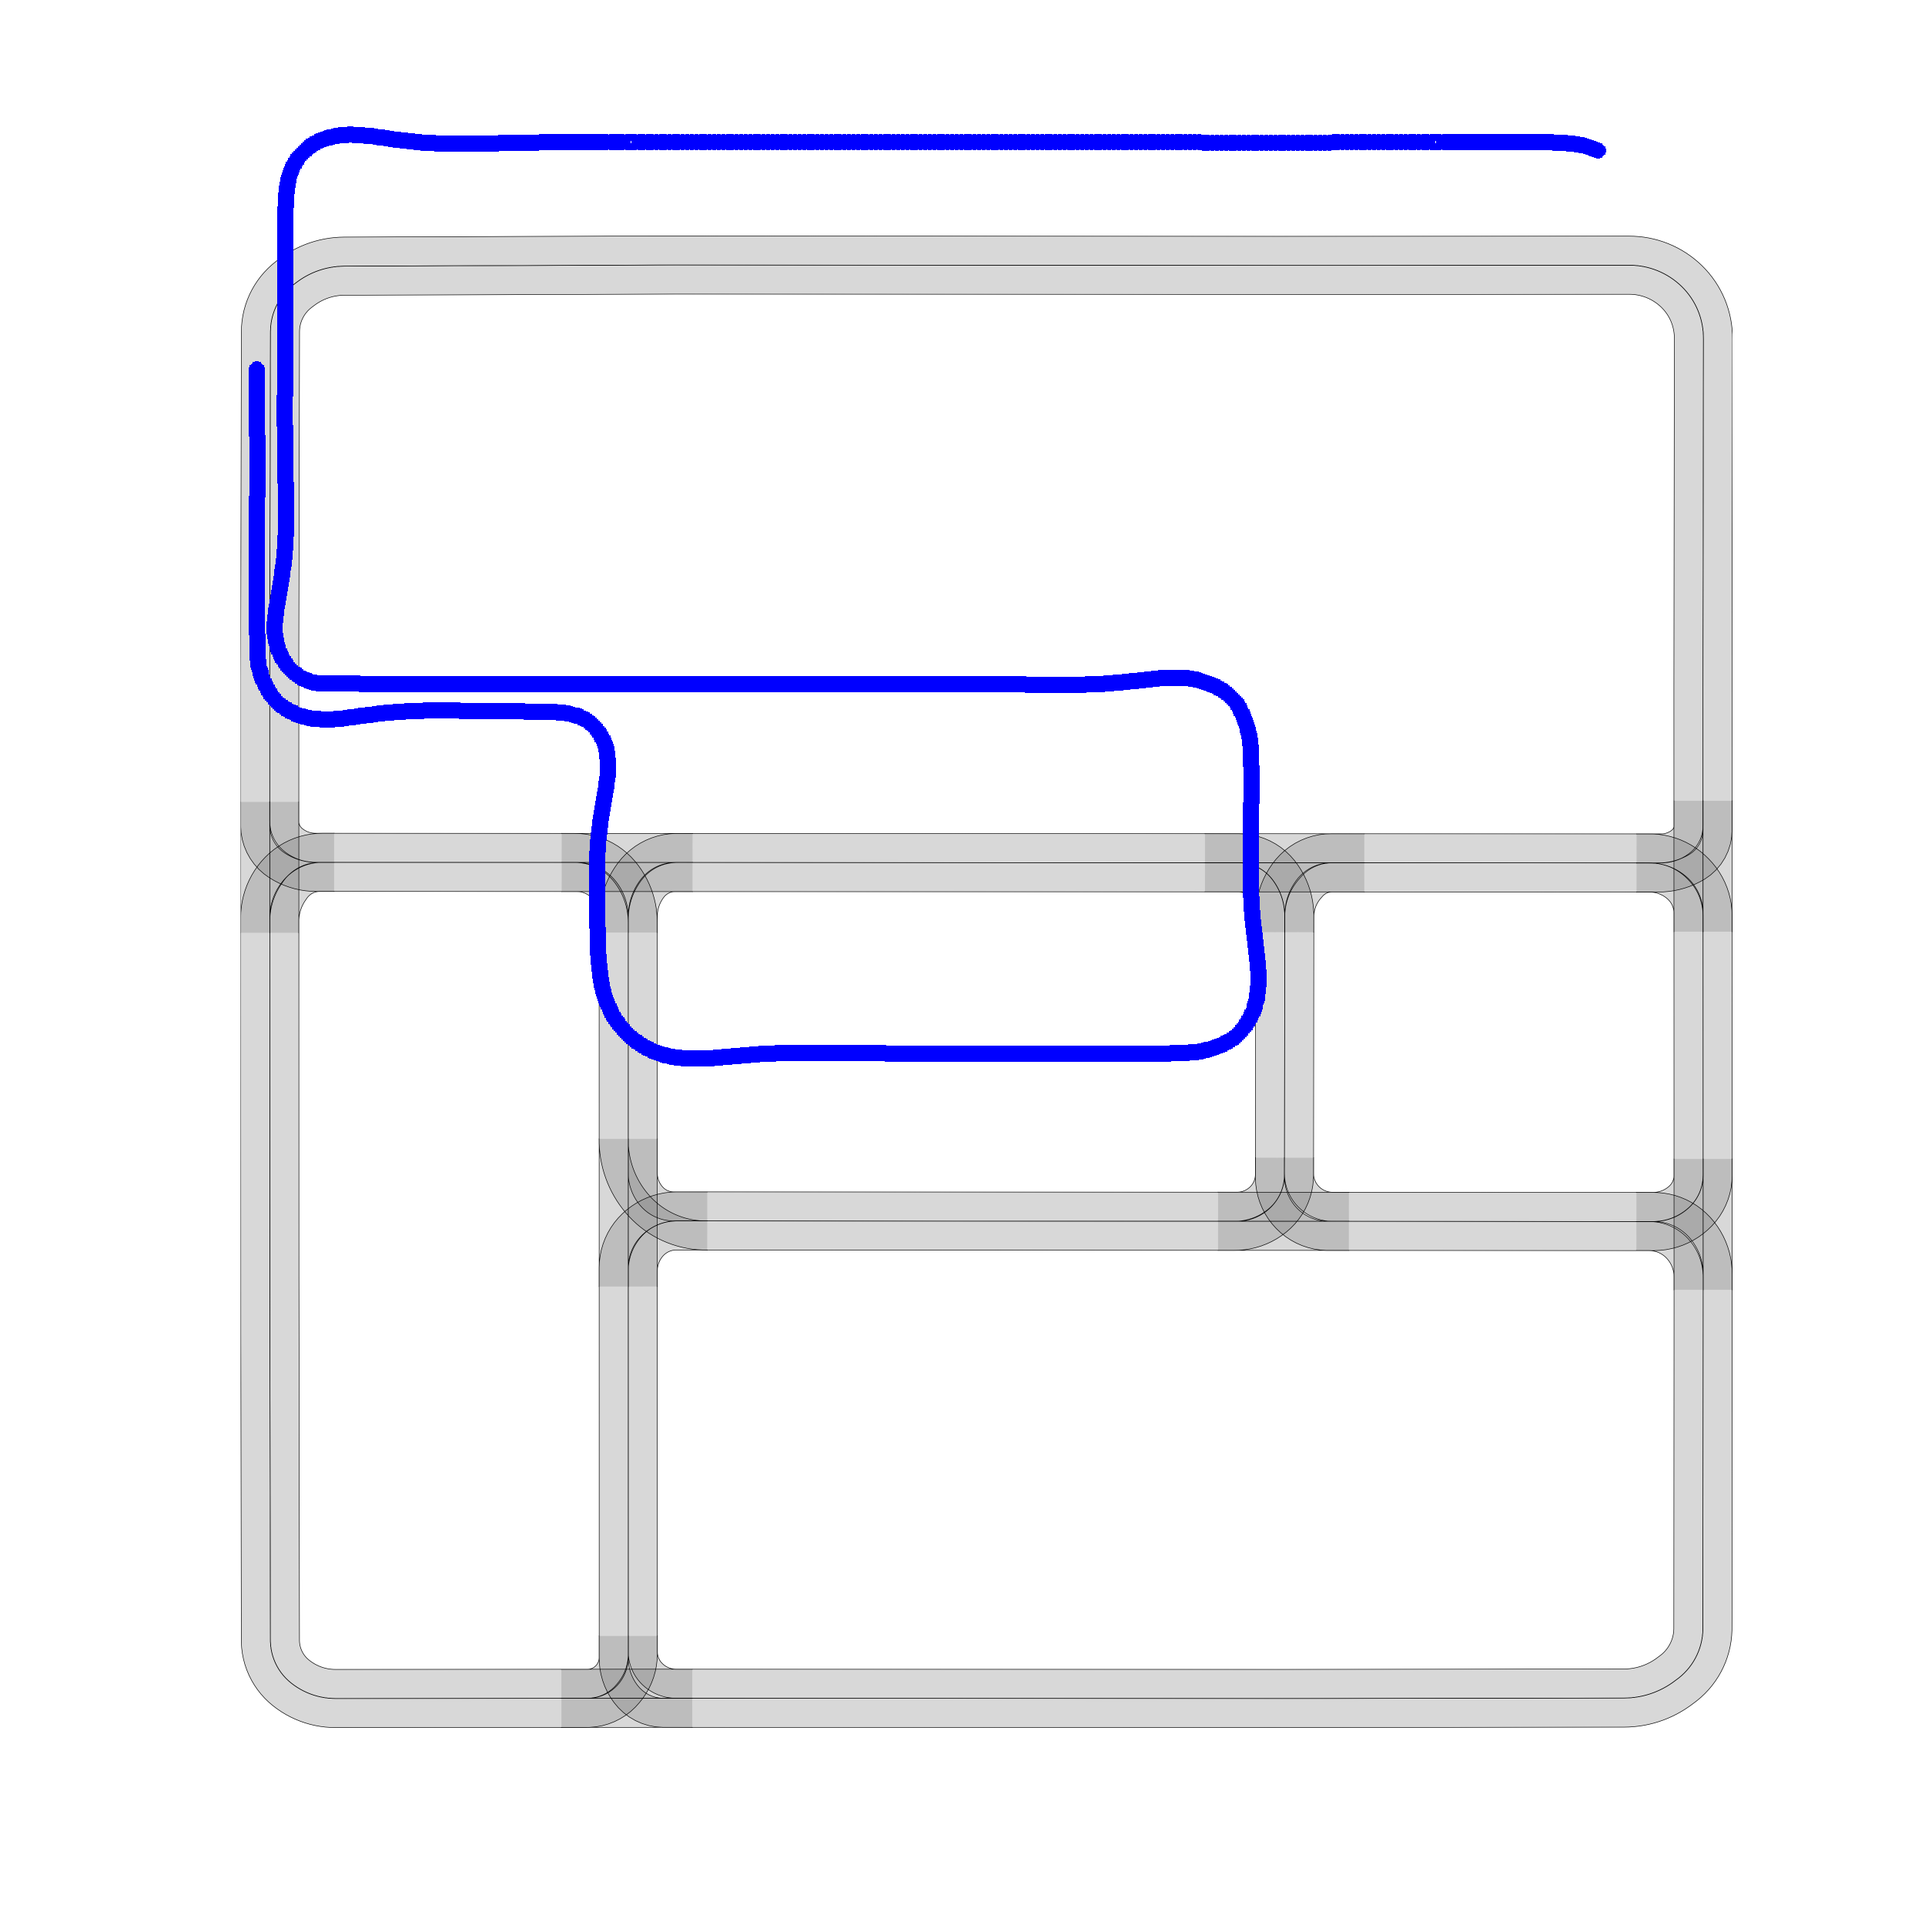
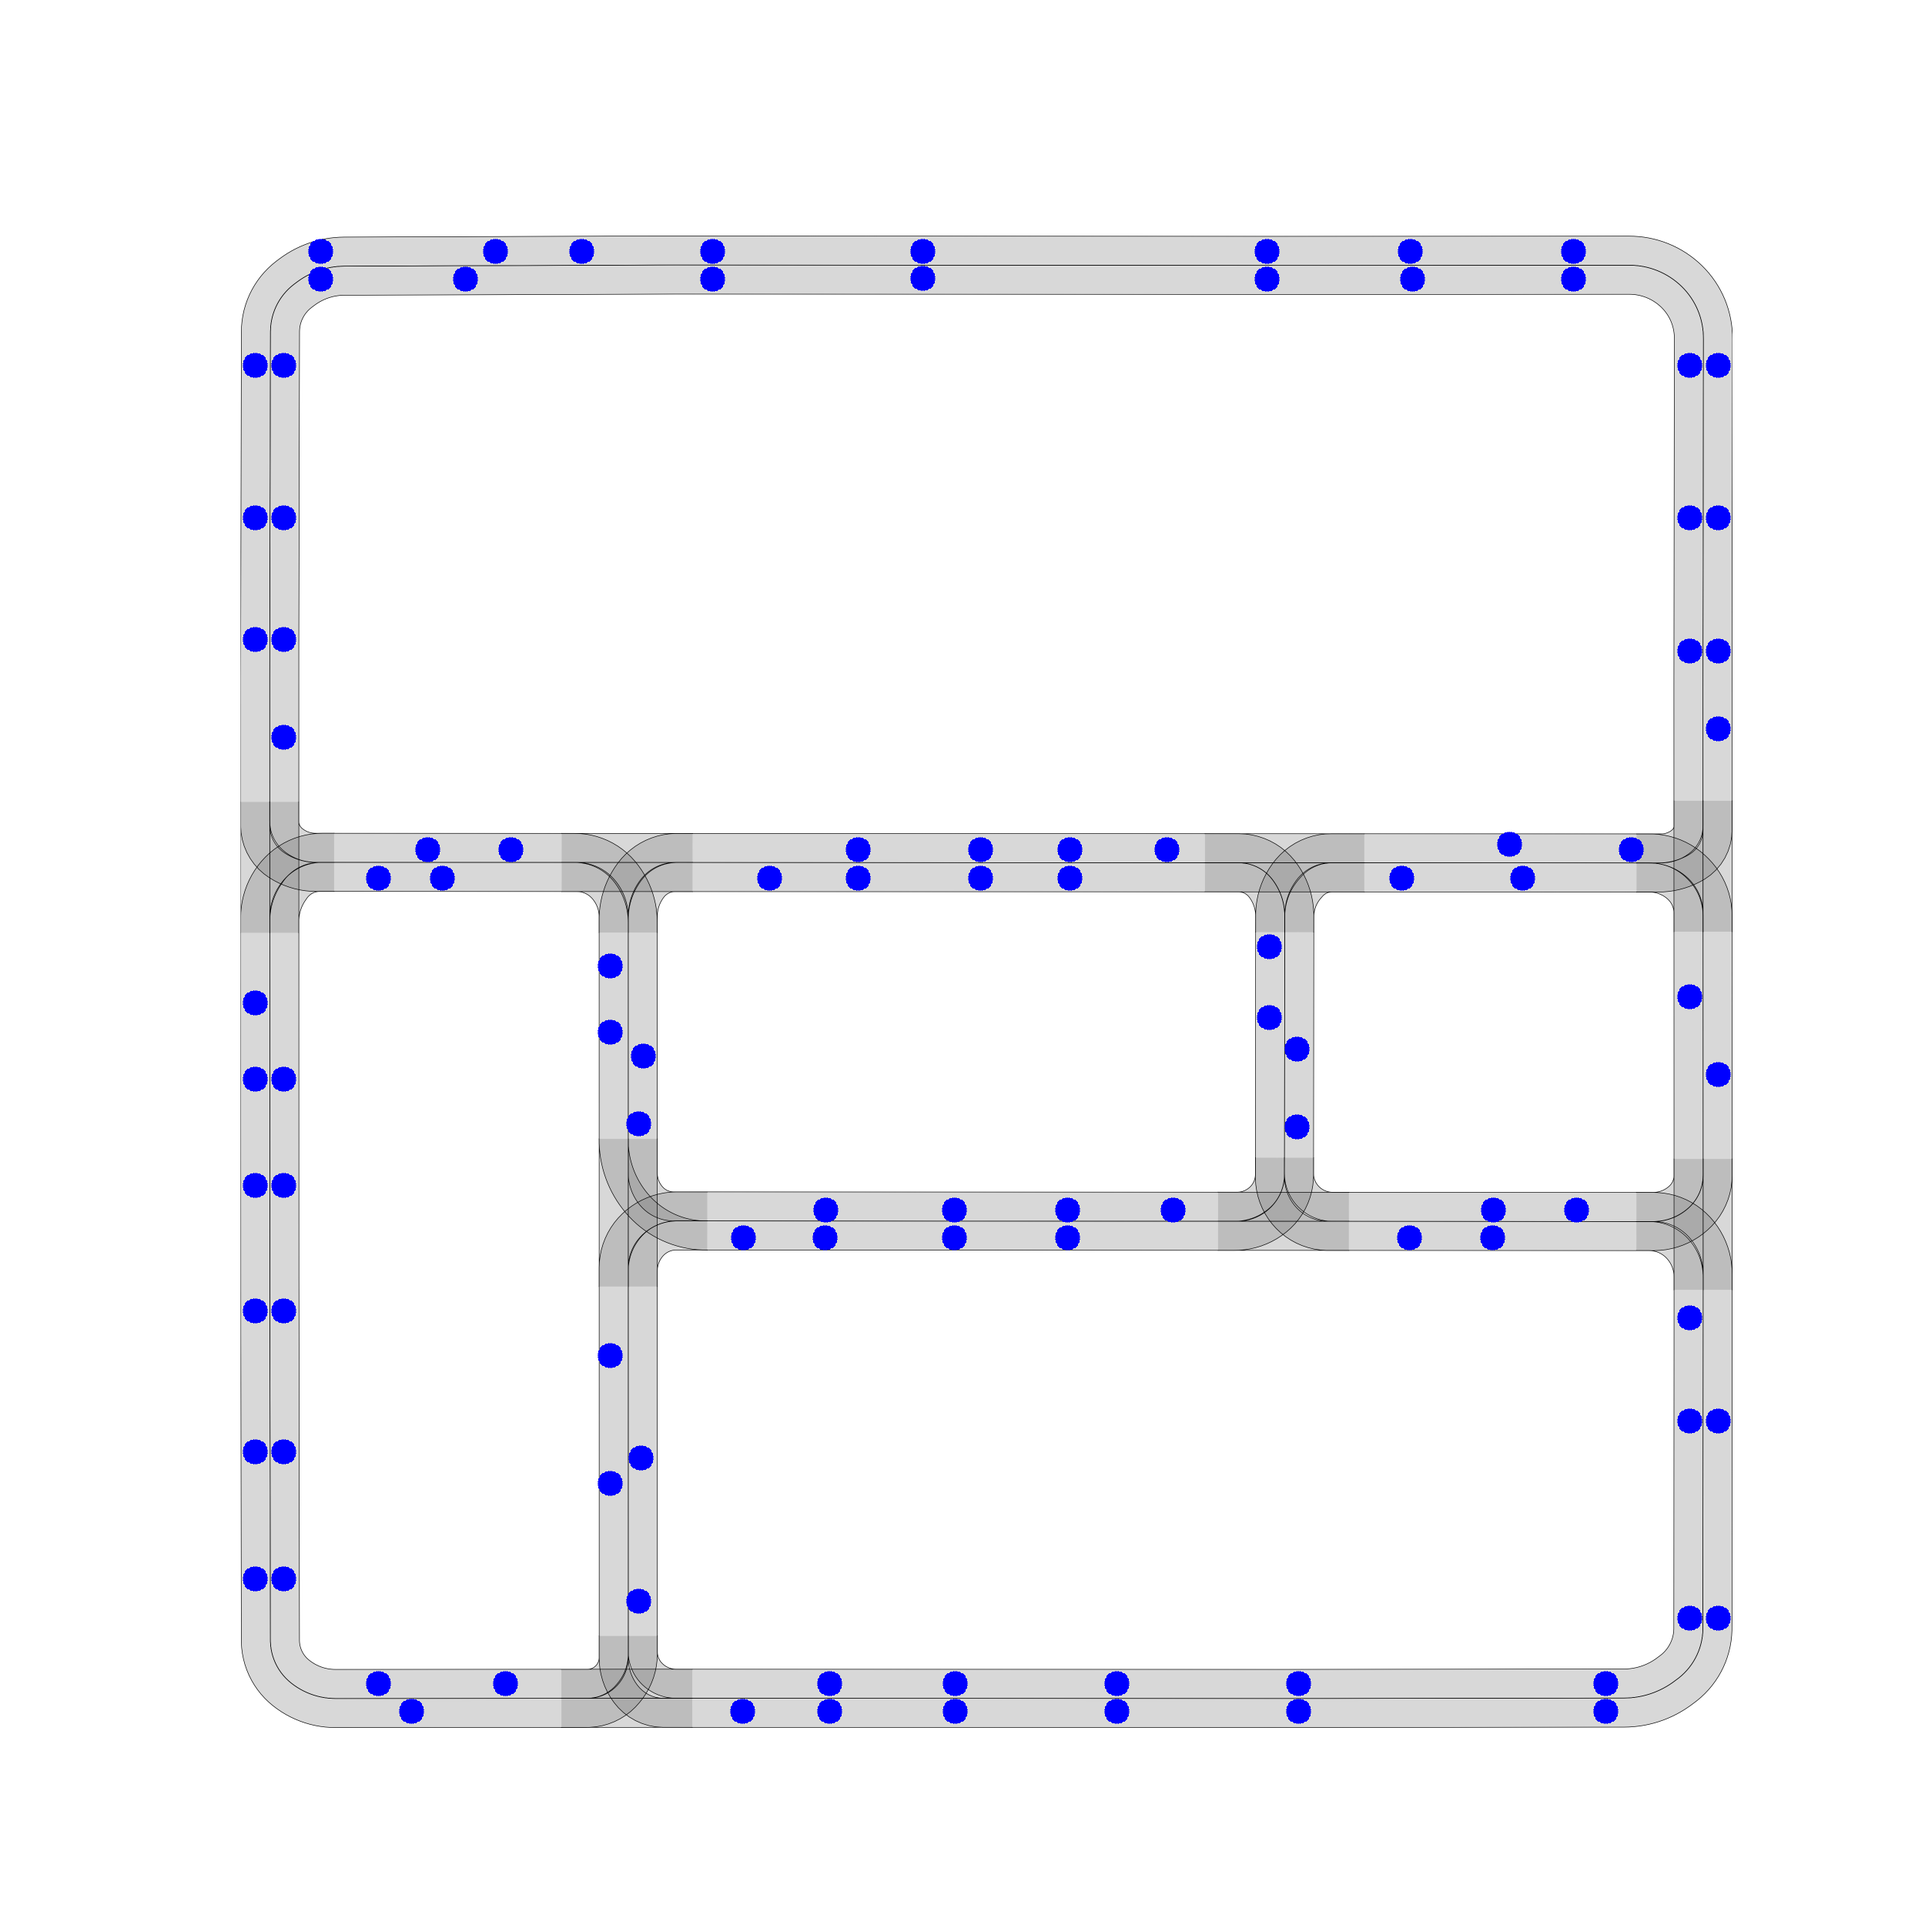
MAP2 SPAWN POINT

diff --git a/python/automatic_control_revised.py b/python/automatic_control_revised.py
@@ -16,7 +16,7 @@ from queue import Empty
 
 import numpy as np
 
-from carla_utils import get_vehicle_info
+from carla_utils import get_vehicle_info, get_transform_location
 from python.agents.navigation.behavior_agent import BehaviorAgent
 
 
@@ -54,6 +54,13 @@ def main():
 
         # read all valid spawn points
         all_default_spawn = world.get_map().get_spawn_points()
+
+        map_spawn_points = []
+        print(all_default_spawn)
+        for default_spawn in all_default_spawn:
+            map_spawn_points.append(get_transform_location(default_spawn))
+        np.save("map2_spawn_points.npy", np.array(map_spawn_points))
+
         # randomly choose one as the start point
         spawn_point = random.choice(all_default_spawn) if all_default_spawn else carla.Transform()
 
@@ -114,7 +121,7 @@ def main():
         agent.set_destination(agent.vehicle.get_location(), destination.location, clean=True)
 
         while True:
-            print(time.time())
+            # print(time.time())
             agent.update_information(vehicle)
 
             world.tick()
@@ -148,7 +155,7 @@ def main():
             #     print("   Some of the sensor information is missed")
 
     finally:
-        np.save("vehicle_info.npy", np.array(vehicle_info))
+        # np.save("vehicle_info.npy", np.array(vehicle_info))
         world.apply_settings(origin_settings)
         vehicle.destroy()
         for sensor in sensor_list:

diff --git a/python/draw_track.py b/python/draw_track.py
@@ -6,18 +6,18 @@ import numpy as np
 
 def pos2pixel(pos):
     pixel = [0, 0]
-    pixel[0] = int(pos[0] * 9) + 400   # Left: - || Right: +
-    pixel[1] = int(pos[1] * 9) - 800   # Up: - || Down: +
+    pixel[0] = int(pos[0] * 9.44) + 402   # Left: - || Right: +
+    pixel[1] = int(pos[1] * 9.44) - 670   # Up: - || Down: +
     return pixel
 
 
 def draw_waypoints(image, points):
     img_with_waypoints = image
     point_color = (255, 0, 0)
-    for point in points:
+    for i, point in enumerate(points):
+        # print(i)
         pixel = pos2pixel(point)
-        print(pixel)
-        img_with_waypoints = cv2.circle(img_with_waypoints, pixel, 8, point_color, 4)
+        img_with_waypoints = cv2.circle(img_with_waypoints, pixel, 8, point_color, 16)
     return img_with_waypoints
 
 
@@ -25,7 +25,7 @@ img_init = cv2.imread('maps/Town02_resize.png')
 print("RAW IMAGE: ", img_init.shape)
 img_size = img_init.shape[:2]
 
-vehicle_info = np.load("vehicle_info.npy")
+vehicle_info = np.load("map2_spawn_points.npy")
 print(vehicle_info.shape)
 vehicle_pos = vehicle_info[:, :2]
 print(vehicle_pos.shape)

diff --git a/python/carla_utils.py b/python/carla_utils.py
@@ -26,3 +26,13 @@ def get_vehicle_info(vehicle):
         acceleration.z,
     ])
     return vehicle_info
+
+
+def get_transform_location(transform):
+    location = transform.location
+    vehicle_info = np.array([
+        location.x,
+        location.y,
+        location.z,
+    ])
+    return vehicle_info
